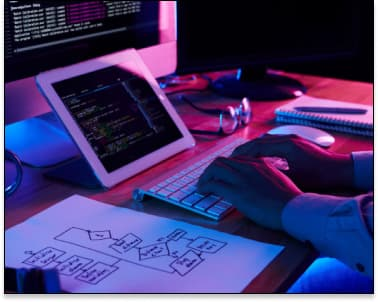
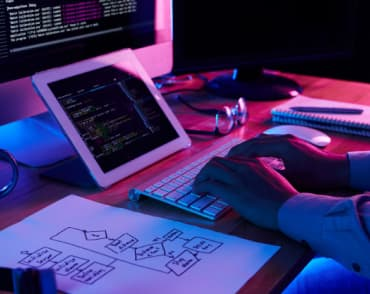
Изменяет секцию Преимущества

diff --git a/css/style.css b/css/style.css
@@ -16,20 +16,14 @@
   box-sizing: border-box;
 }
 
-*,
-*::before,
-*::after {
-  box-sizing: inherit;
-}
-
-
 .body {
   font-family: 'Roboto', sans-serif;
-  font-style: normal;
-  background-color: var(--primary-bg-color);
+    background-color: var(--primary-bg-color);
   color: var(--secondary-text-color);
   letter-spacing: 0.03em;
+  margin: 0;
 }
+
 .list {
   padding: 0;
   margin: 0;
@@ -50,6 +44,11 @@ a {
   width: 1200px;
   padding-left: 15px;
   padding-right: 15px;
+}
+
+img {
+  display: block;
+  max-width: 100%;
 }
 
 /* Заголовок */
@@ -93,7 +92,8 @@ a {
   margin-right: 50px;
 }
 
-.list .nav-header-list {
+.list .nav-header-list,
+.header-contacts-list  {
   display: block;
   padding-top: 32px;
   padding-bottom: 32px;
@@ -195,6 +195,11 @@ a {
   background-color: yellowgreen;
 }
 
+.list .advantages-item:not(:last-child) {
+margin-right: 30px;
+}
+
+
 .company-advantages .title {
   margin-top: 0;
   margin-bottom: 10px;
@@ -206,10 +211,15 @@ a {
 
 .company-advantages-item {
   margin-top: 0;
+  margin-bottom: 0;
   font-size: 14px;
   line-height: 1.71;
   color: var(--primary-text-color);
 }
+
+
+
+/* Наша команда и примеры работ */
 
 .work {
   padding-bottom: 94px;
@@ -217,7 +227,6 @@ a {
   background-color: aqua;
 }
 
-/* Наша команда и примеры работ */
 .work-examples {
   margin-top: 0;
   font-weight: 700;
@@ -227,8 +236,8 @@ a {
 }
 
 .list .work-item:not(:last-child),
-.our-team-header-list:not(:last-child),
-.advantages-item:not(:last-child) {
+.our-team-header-list:not(:last-child)
+ {
   margin-right: 30px;
 }
 

diff --git a/index.html b/index.html
@@ -78,21 +78,21 @@
                 формированию позиции.
               </p>
             </li>
-            <li>
+            <li class="advantages-item">
               <h3 class="title">Пунктуальность</h3>
               <p class="company-advantages-item">
                 Задача организации, в особенности же рамки и место обучения
                 кадров влечет за собой.
               </p>
             </li>
-            <li>
+            <li class="advantages-item">
               <h3 class="title">Планирование</h3>
               <p class="company-advantages-item">
                 Равным образом консультация с широким активом в значительной
                 степени обуславливает.
               </p>
             </li>
-            <li>
+            <li class="advantages-item">
               <h3 class="title">Современные технологии</h3>
               <p class="company-advantages-item">
                 Значимость этих проблем настолько очевидна, что реализация
